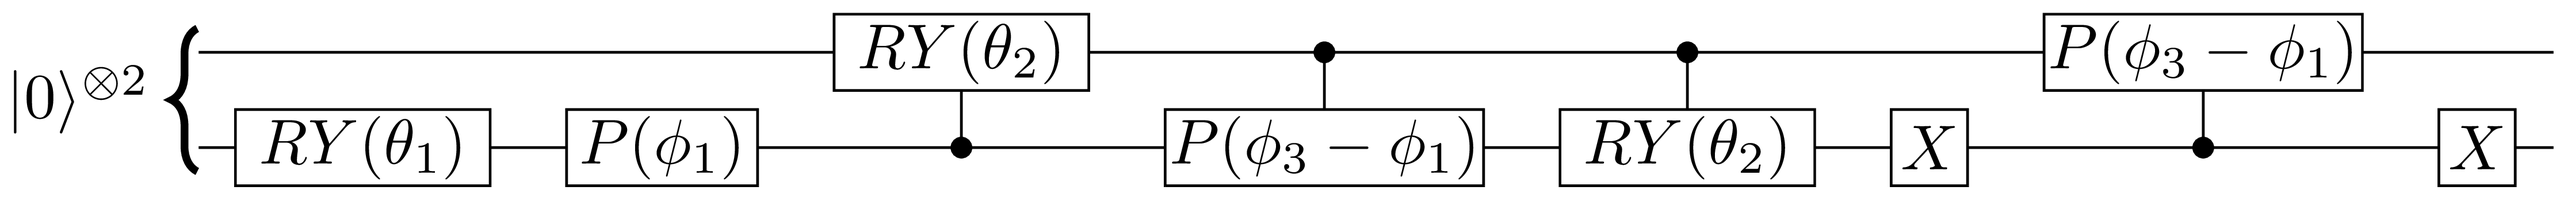
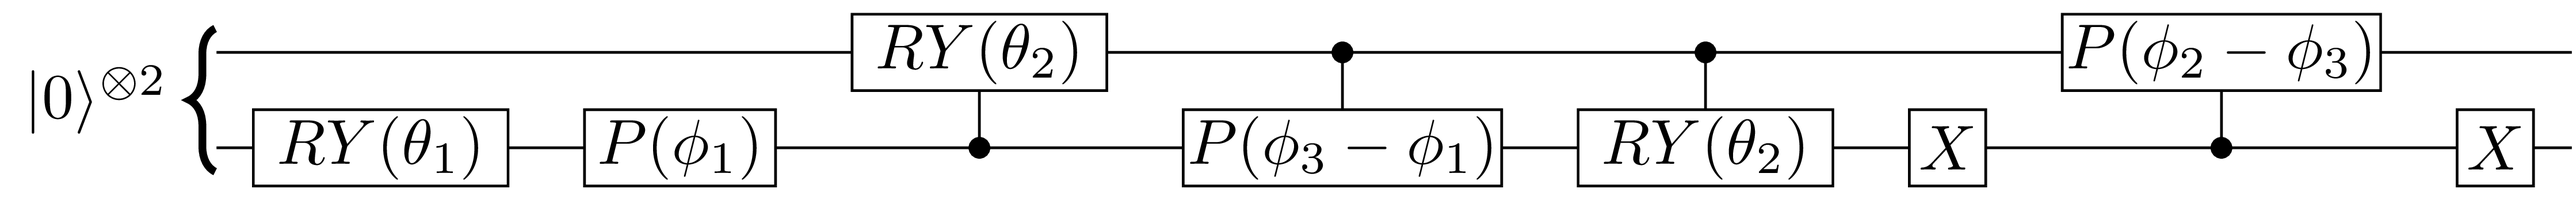
Fixed wrong circuit parameters.

diff --git a/_drafts/2023-07-20-variational-quantum-eigensolver.md b/_drafts/2023-07-20-variational-quantum-eigensolver.md
@@ -2085,7 +2085,7 @@ And thus we have our circuit:
 </div>
 
 #### Two-qubits state preparation
-A two-qubits has the trigonometric parametrization:
+A two-qubits state has the trigonometric parametrization:
 
 {% katexmm %}
 $$
